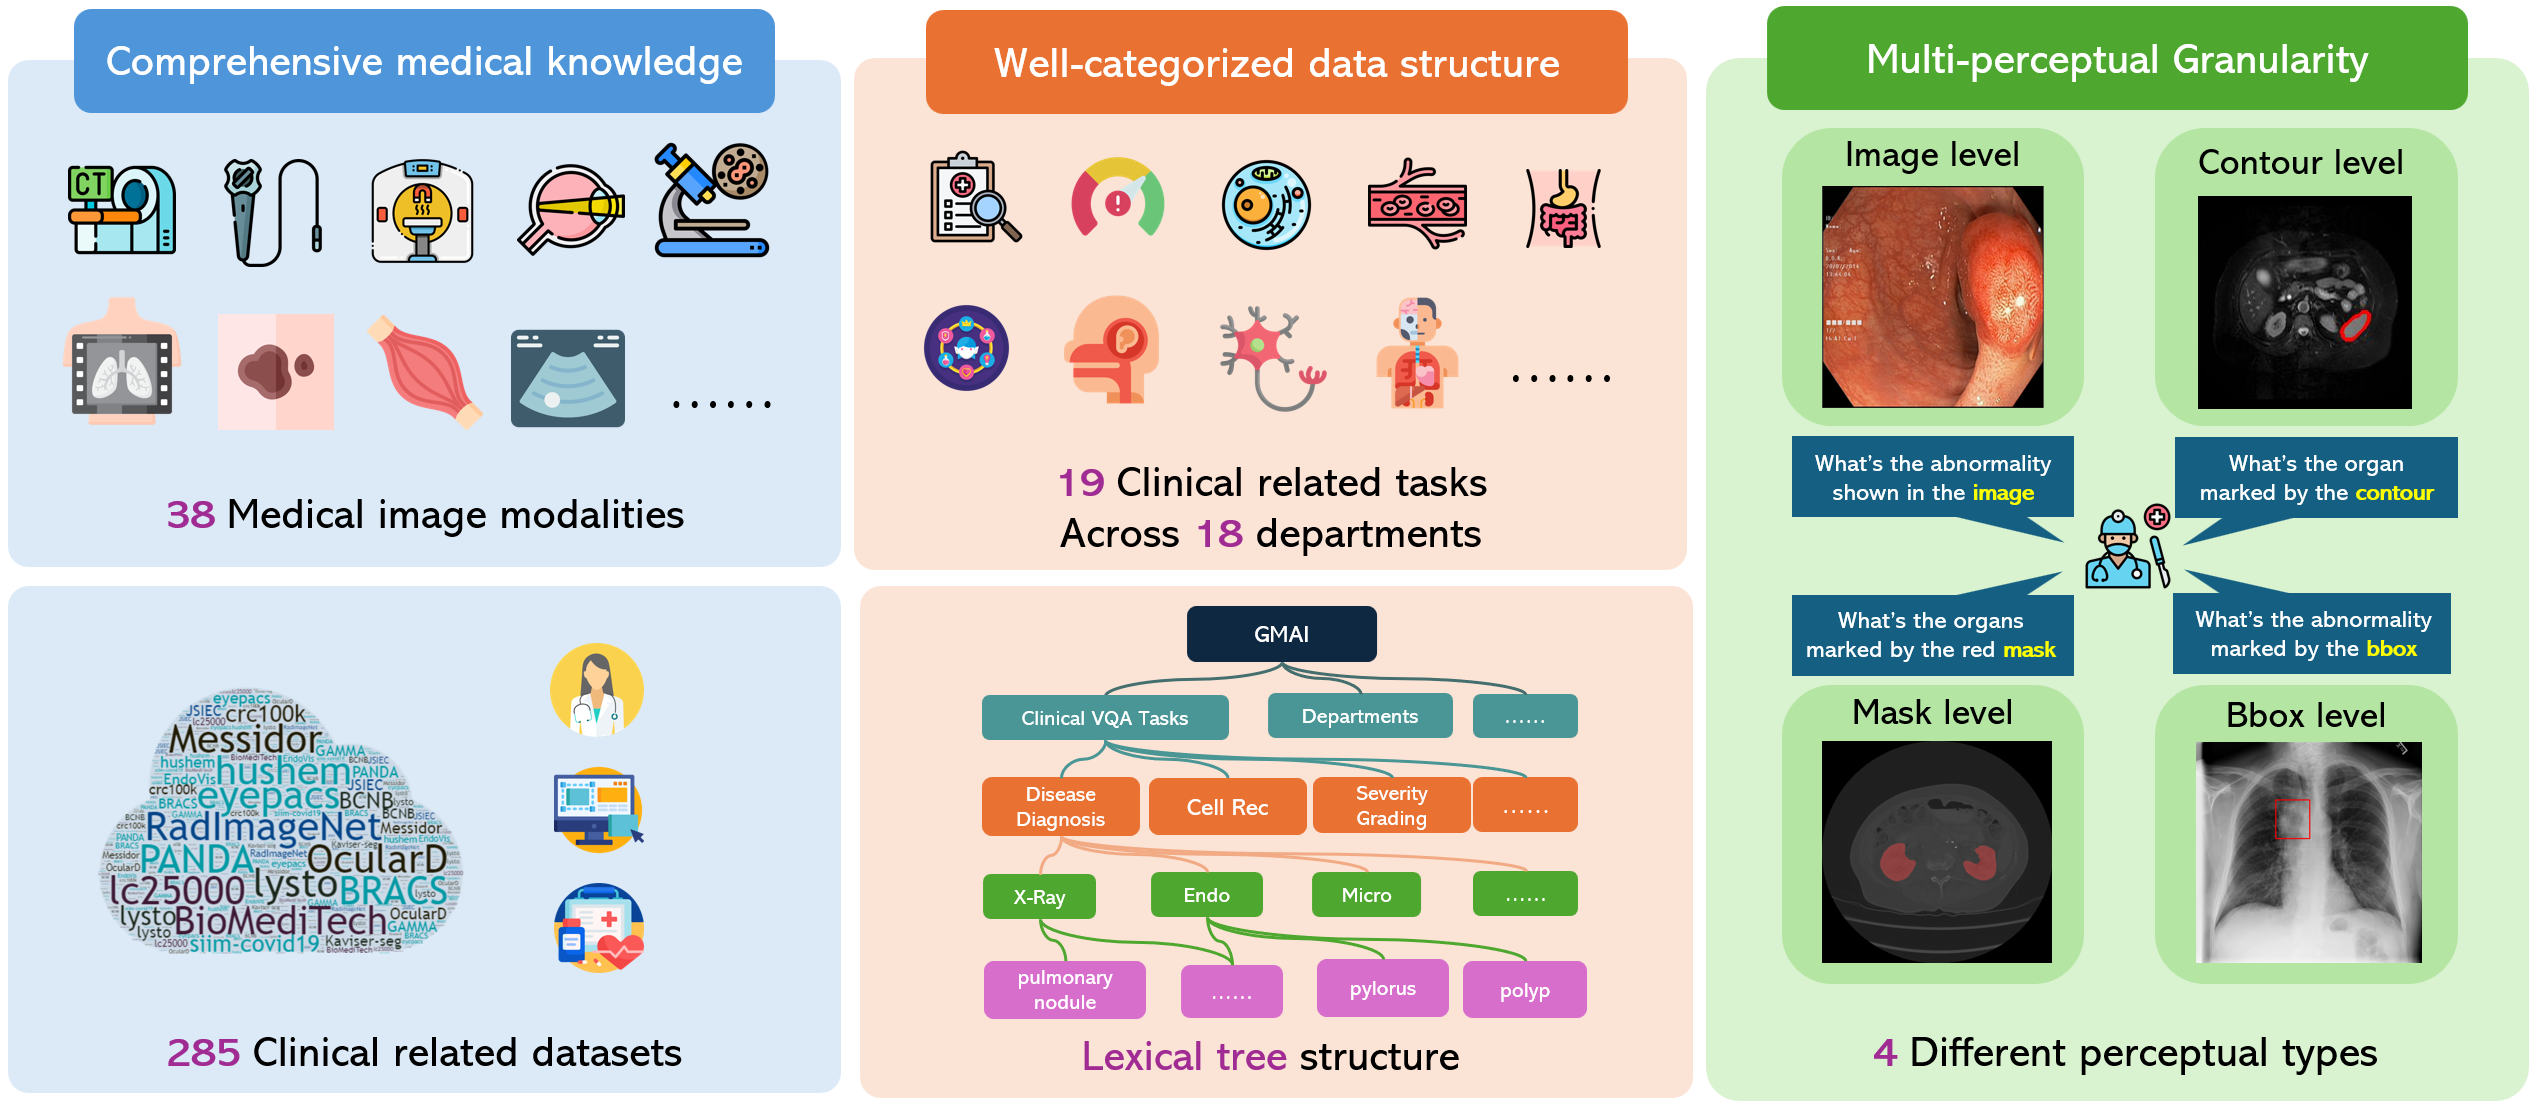
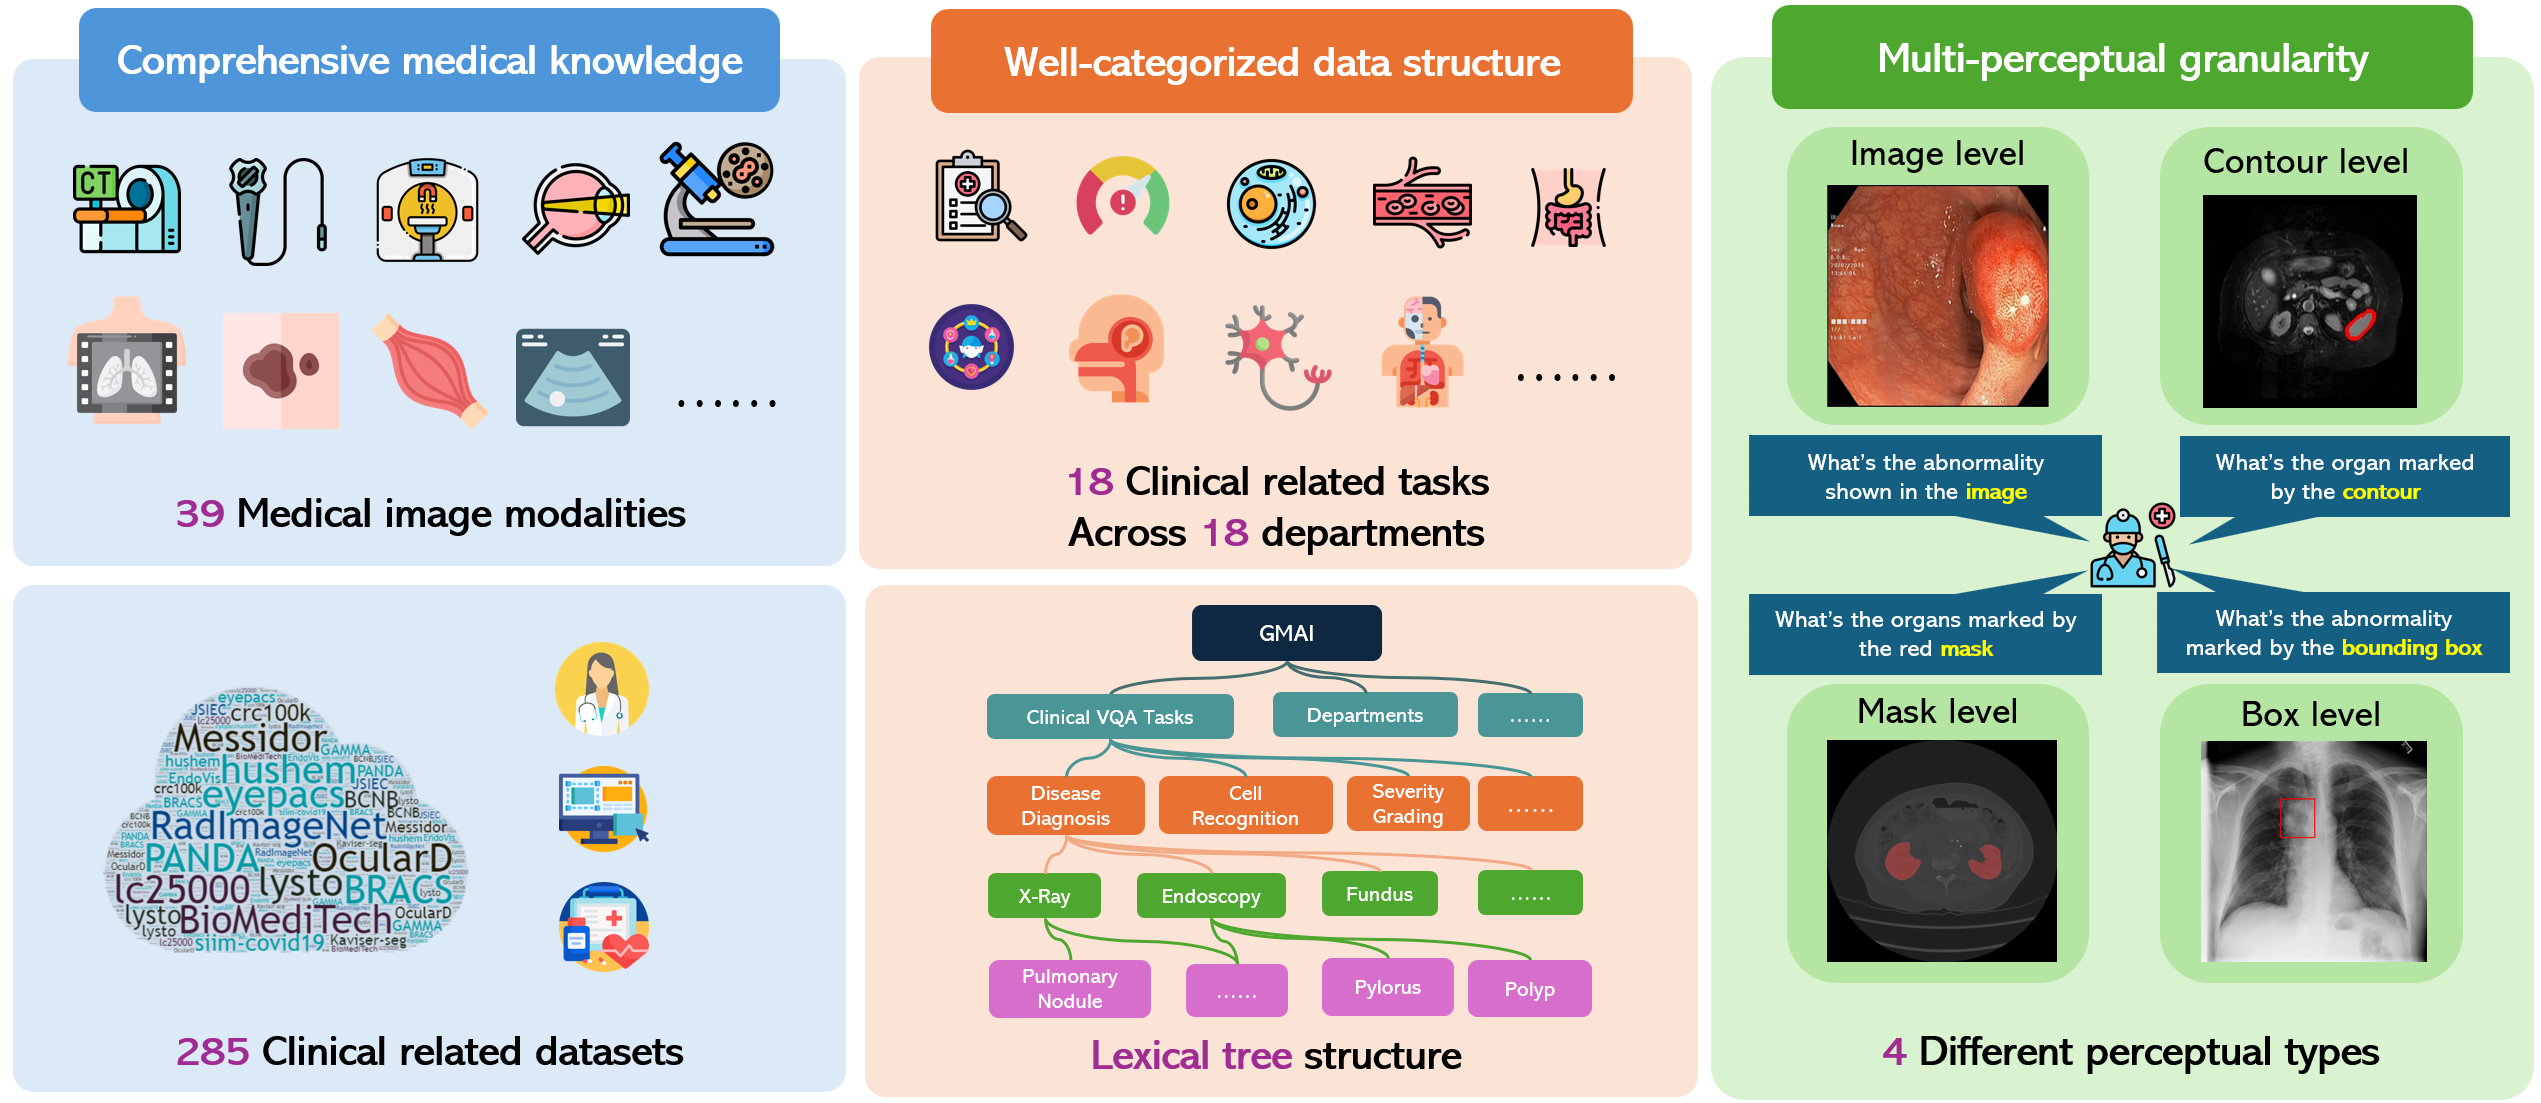
gawang

diff --git a/index.html b/index.html
@@ -142,7 +142,7 @@
                     <div class="publication-links">
                          <!-- Arxiv PDF link -->
                       <span class="link-block">
-                        <a href="https://arxiv.org/pdf/<ARXIV PAPER ID>.pdf" target="_blank"
+                        <a href="https://arxiv.org/pdf/2408.03361" target="_blank"
                         class="external-link button is-normal is-rounded is-dark">
                         <span class="icon">
                           <i class="fas fa-file-pdf"></i>
@@ -152,7 +152,7 @@
                     </span>
 
                     <!-- Supplementary PDF link -->
-                    <span class="link-block">
+                    <!-- <span class="link-block">
                       <a href="static/pdfs/supplementary_material.pdf" target="_blank"
                       class="external-link button is-normal is-rounded is-dark">
                       <span class="icon">
@@ -160,7 +160,7 @@
                       </span>
                       <span>Supplementary</span>
                     </a>
-                  </span>
+                  </span> -->
 
                   <!-- Github link -->
                   <span class="link-block">
@@ -183,7 +183,7 @@
 
                 <!-- ArXiv abstract Link -->
                 <span class="link-block">
-                  <a href="https://arxiv.org/abs/<ARXIV PAPER ID>" target="_blank"
+                  <a href="https://arxiv.org/abs/2408.03361" target="_blank"
                   class="external-link button is-normal is-rounded is-dark">
                   <span class="icon">
                     <i class="ai ai-arxiv"></i>
@@ -205,8 +205,12 @@
         <div class="content has-text-centered">
           <img src="static/images/cover.jpg" alt="geometric reasoning" width="100%"/>
           <p>  
-            Overview of the GMAI-MMBench. The benchmark is meticulously designed for testing LVLMs’ abilities in real-world clinical scenarios with three key features: (1) Comprehensive medical knowledge: It consists of 285 diverse clinical-related datasets from worldwide sources, covering 38 modalities. (2) Well-categorized data structure: It features 19 clinical VQA tasks and 18 clinical departments, meticulously organized into a lexical tree. (3) Multi-perceptual granularity: Interactive methods span from image to region level, offering varying degrees of perceptual details.
-          </div>
+            Overview of the GMAI-MMBench. The benchmark is meticulously designed for testing
+            LVLMs’ abilities in real-world clinical scenarios with three key features: (1) Comprehensive medical
+            knowledge: It consists of 285 diverse clinical-related datasets from worldwide sources, covering 39
+            modalities. (2) Well-categorized data structure: It features 18 clinical VQA tasks and 18 clinical
+            departments, meticulously organized into a lexical tree. (3) Multi-perceptual granularity: Interactive
+            methods span from image to region level, offering varying degrees of perceptual details.
         </p>  
     </div>
   </div>
@@ -239,12 +243,8 @@
         <div class="content has-text-centered">
           <img src="static/images/body_med.png" alt="geometric reasoning" width="100%"/>
           <p>
-            Overview of GMAI-MMBench: A benchmark for comprehensive medical knowledge
-            derived from diverse modalities, tasks, and data sources, systematically categorized in lexical tree
-            structures, and encompassing multiple perceptual granularities.
-
-          </p>  
-            
+            Examples of GMAI-MMBench. The benchmark covers a variety of clinical tasks, departments, and perceptual granularities from worldwide data sources.
+          </p>          
           </div>
     </div>
   </div>
@@ -266,7 +266,15 @@
         <h2 class="title is-3">Overview</h2>
         <div class="content has-text-justified">
           <p>
-            We propose GMAI-MMBench, an innovative benchmark meticulously designed for the medical field, capable of providing comprehensive evaluations of LVLMs across various aspects of healthcare. We collect 285 datasets from public sources and hospitals, covering medical imaging tasks of detection, classification, and segmentation, to form the data fuel for establishing such a benchmark. The detailed datasets are listed in the supplementary. Based on the data foundation, we design a reliable pipeline to generate question-answering pairs and organize them from different perspectives with manual validation. Finally, we carefully select approximately 26K questions with varying levels of perceptual granularity from the filtered cases to construct the final GMAI-MMBench.
+            We propose GMAI-MMBench, an innovative benchmark meticulously designed for the medical field,
+            capable of providing comprehensive evaluations of LVLMs across various aspects of healthcare.
+            We collect 285 datasets from public sources and hospitals, covering medical
+            imaging tasks of detection, classification, and segmentation, to form the data fuel for establishing such
+            a benchmark. The detailed datasets are listed in the supplementary. Based on the data foundation,
+            we design a reliable pipeline to generate question-answering pairs and organize them from different
+            perspectives with manual validation. Finally, we carefully select approximately 26K questions with
+            varying levels of perceptual granularity from the manually validated cases to construct the final
+            GMAI-MMBench.
           </p>
            <img src="static/images/Figure2.jpg" alt="algebraic reasoning" class="center">
           </p>
@@ -316,7 +324,10 @@
         </p>
         <div class="content has-text-centered">
           <img src="static/images/Lexical Tree_2.jpg" alt="algebraic reasoning" class="center">
-          <p> An example of how to use the Lexical Tree for customizing evaluations. The process involves selecting the department (ophthalmology), choosing the modality (fundus photography), filtering questions using relevant keywords, and evaluating different models based on their accuracy in answering the filtered questions. </p>
+          <p> Example of how to use the Lexical Tree for customizing evaluations for the ophthalmology
+            department and fundus photography modality. The process involves selecting the department
+            (ophthalmology), choosing the modality (fundus photography), filtering questions using relevant
+            keywords, and evaluating different models based on their accuracy in answering the filtered questions. </p>
         </div>
         </div>
     </div>
@@ -3423,7 +3434,7 @@
     <div class="content has-text-centered">
       <img src="static/images/ErrorClassification.png" alt="error distribution" width="75%">
       <p>
-        The flowchart of error classification process for evaluating model performance from input to output, encompassing stages from question understanding to knowledge analysis
+        The illustration of the entire logical process from input to output in our case study.
       </p>
     </div>
   </div>
@@ -3633,7 +3644,15 @@
   <section class="section" id="BibTeX">
     <div class="container is-max-desktop content">
       <h2 class="title">BibTeX</h2>
-      <pre><code>BibTex Code Here</code></pre>
+      <pre><code>@misc{chen2024gmaimmbenchcomprehensivemultimodalevaluation,
+        title={GMAI-MMBench: A Comprehensive Multimodal Evaluation Benchmark Towards General Medical AI}, 
+        author={Pengcheng Chen and Jin Ye and Guoan Wang and Yanjun Li and Zhongying Deng and Wei Li and Tianbin Li and Haodong Duan and Ziyan Huang and Yanzhou Su and Benyou Wang and Shaoting Zhang and Bin Fu and Jianfei Cai and Bohan Zhuang and Eric J Seibel and Junjun He and Yu Qiao},
+        year={2024},
+        eprint={2408.03361},
+        archivePrefix={arXiv},
+        primaryClass={eess.IV},
+        url={https://arxiv.org/abs/2408.03361}, 
+  }</code></pre>
     </div>
 </section>
 <!--End BibTex citation -->
